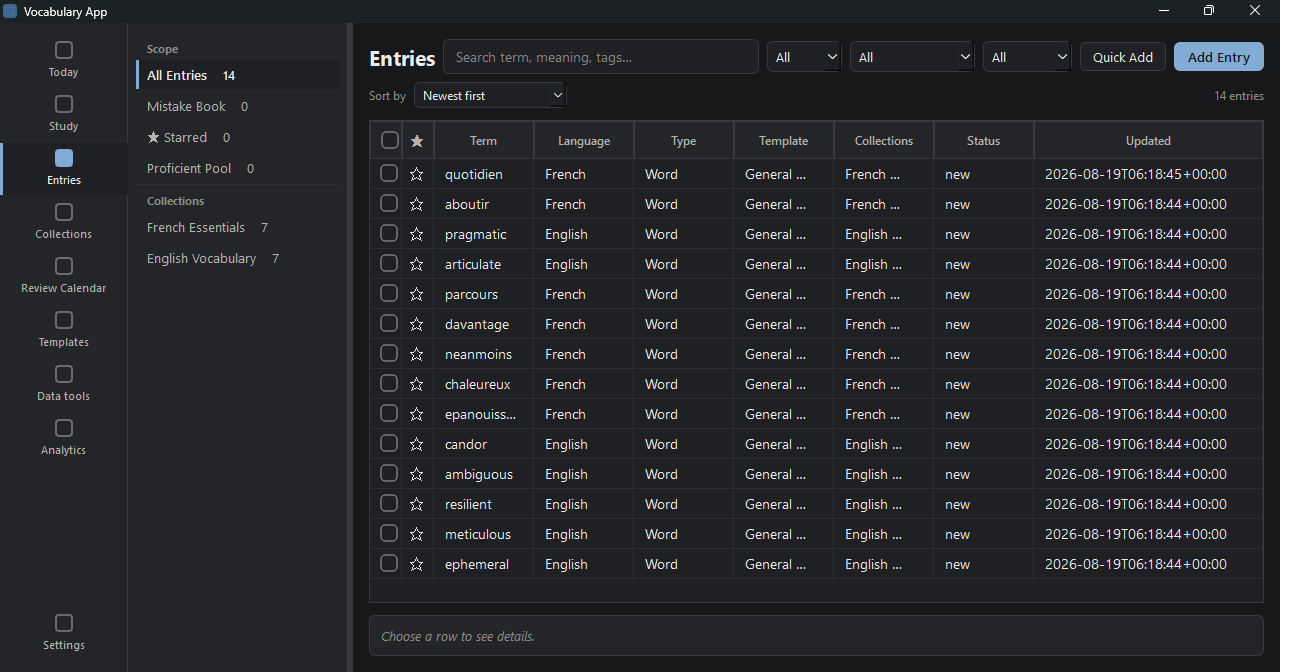
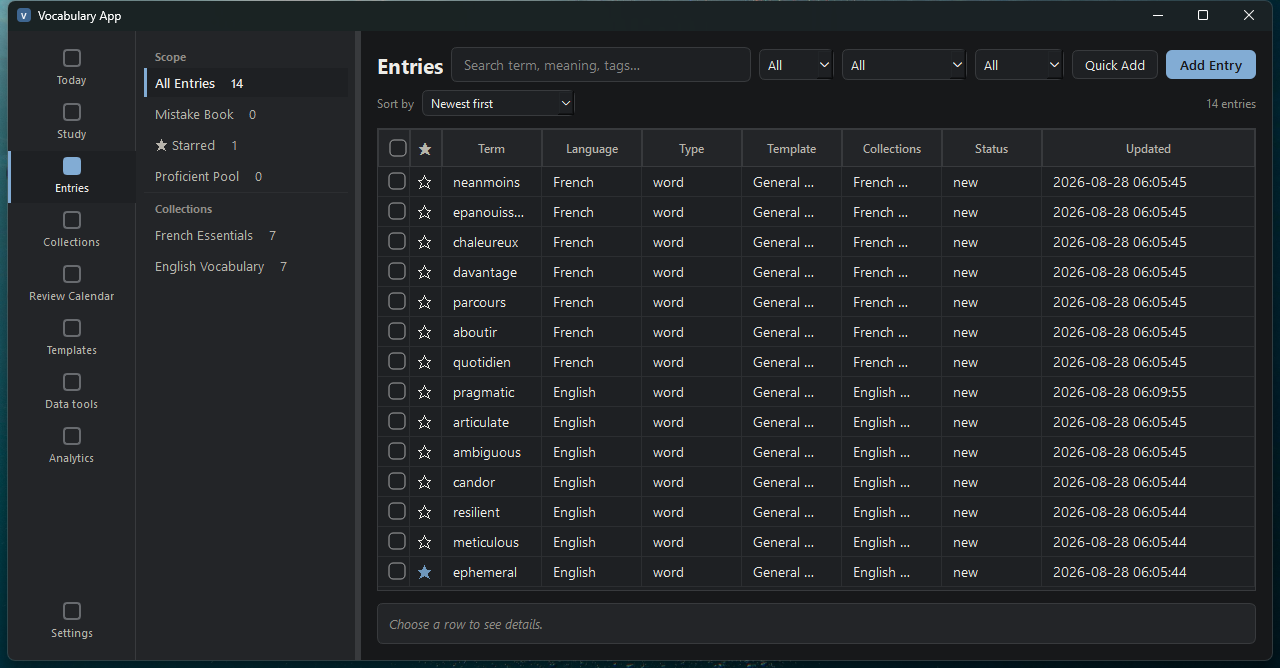
docs: refresh portfolio README screenshots for v1.1.0
Replaces all 4 existing assets/readme/ screenshots (captured from the
signed v1.1.0 Windows release build, against a fresh fictional demo
dataset -- no personal data, no local paths) and adds one new
theme-settings.png:

- today.png / today-dark.png: Today, light/dark pair, now with one
  real completed Quiz answer and a Starred item so the daily-home
  metrics and "Collections Needing Attention" aren't all zero.
- entries-dark.png: Entries table-first manager, one entry starred.
- study-dark.png: Study card showing the new compact Star/Proficient
  action pair above the term, with Star toggled to its filled state --
  the old screenshot predated this v1.1.0 UI and didn't show it.
- theme-settings.png (new): Settings' Theme Customization panel with
  the Indigo / Violet preset live-previewed, the headline v1.1.0
  user-visible capability that had no screenshot before.

README.md: updated captions to match what's actually pictured, and
added an explicit, honest note on which workspaces are NOT pictured
(Collections, Quiz, Review Calendar, Analytics) rather than implying
full coverage. Removed the stale "screenshots are from the packaged
v1.0.0 build... layout unchanged in v1.1.0" transitional wording now
that real v1.1.0 screenshots exist.

No src/, tests/, ROADMAP.md, PROJECT_STATUS.md, DESIGN.md, or
ARCHITECTURE.md changes. v1.1.0 tag/Release/assets untouched.

diff --git a/README.md b/README.md
@@ -19,13 +19,17 @@ Your core learning data (entries, Collections, Quiz history) lives in a local SQ
 |---|---|
 | ![Today screen, light theme](assets/readme/today.png) | ![Today screen, dark theme](assets/readme/today-dark.png) |
 
-**Entries** (table-first manager) and **Study** (Immersive Focus card):
+**Entries** (table-first manager) and **Study** — the compact Star/Proficient actions above each Card are direct, one-click learning-status controls:
 
 | Entries | Study |
 |---|---|
-| ![Entries screen, dark theme](assets/readme/entries-dark.png) | ![Study card screen, dark theme](assets/readme/study-dark.png) |
+| ![Entries screen, dark theme, one entry starred](assets/readme/entries-dark.png) | ![Study card screen, dark theme, with compact Star and Proficient action buttons above the term](assets/readme/study-dark.png) |
 
-Screenshots are from the packaged v1.0.0 Windows build, running against a small fictional demo dataset.
+**Theme Customization** (Settings) — independent per-mode Accent/Background/Surfaces/Text colors with a guarded-contrast preset (Indigo / Violet shown here), live-previewed before you click Apply:
+
+![Settings screen showing the Theme Customization panel with the Indigo / Violet preset selected](assets/readme/theme-settings.png)
+
+Screenshots are from the packaged v1.1.0 Windows build, running against a small fictional demo dataset. They cover Today, Entries, Study, and Theme Customization; Collections, Quiz, Review Calendar, Analytics, and the other workspaces aren't pictured here — see [What it does](#what-it-does) below for the full feature list.
 
 ## What it does
 
@@ -130,7 +134,7 @@ See [Data Storage](docs/policies/DATA_STORAGE.md) and [Data Safety](docs/policie
 
 ## Known limitations
 
-- The v1.0 release is signed with a self-signed Authenticode certificate, not a publicly trusted one; SmartScreen reputation isn't guaranteed and a warning may appear on first run.
+- The release is signed with a self-signed Authenticode certificate (the same `CN=Peter Shi` identity since v1.0), not a publicly trusted one; SmartScreen reputation isn't guaranteed and a warning may appear on first run.
 - Full pristine clean-machine VM verification was deferred; v1.0 acceptance used a fresh local standard Windows account instead (see [PROJECT_STATUS.md](PROJECT_STATUS.md)).
 - Windows 10/11 x64 only.
 - Card Audio Export depends on compatible speech voices already installed on the user's Windows system.
@@ -141,7 +145,7 @@ See [Data Storage](docs/policies/DATA_STORAGE.md) and [Data Safety](docs/policie
 - [docs/README.md](docs/README.md) — full documentation map
 - [ARCHITECTURE.md](ARCHITECTURE.md) — layer boundaries and core module responsibilities
 - [DESIGN.md](DESIGN.md) — frozen desktop UI design system
-- [ROADMAP.md](ROADMAP.md) / [PROJECT_STATUS.md](PROJECT_STATUS.md) — full milestone history and the current release-evidence record (v1.0.0 shipped through M20; v1.1.0 implementation and verification closed in M21)
+- [ROADMAP.md](ROADMAP.md) / [PROJECT_STATUS.md](PROJECT_STATUS.md) — full milestone history and the current release-evidence record (v1.0.0 shipped through M20; v1.1.0 shipped through M21)
 - [CONTRIBUTING.md](CONTRIBUTING.md) — project principles and architecture rules for contributors
 
 ## Common Errors
